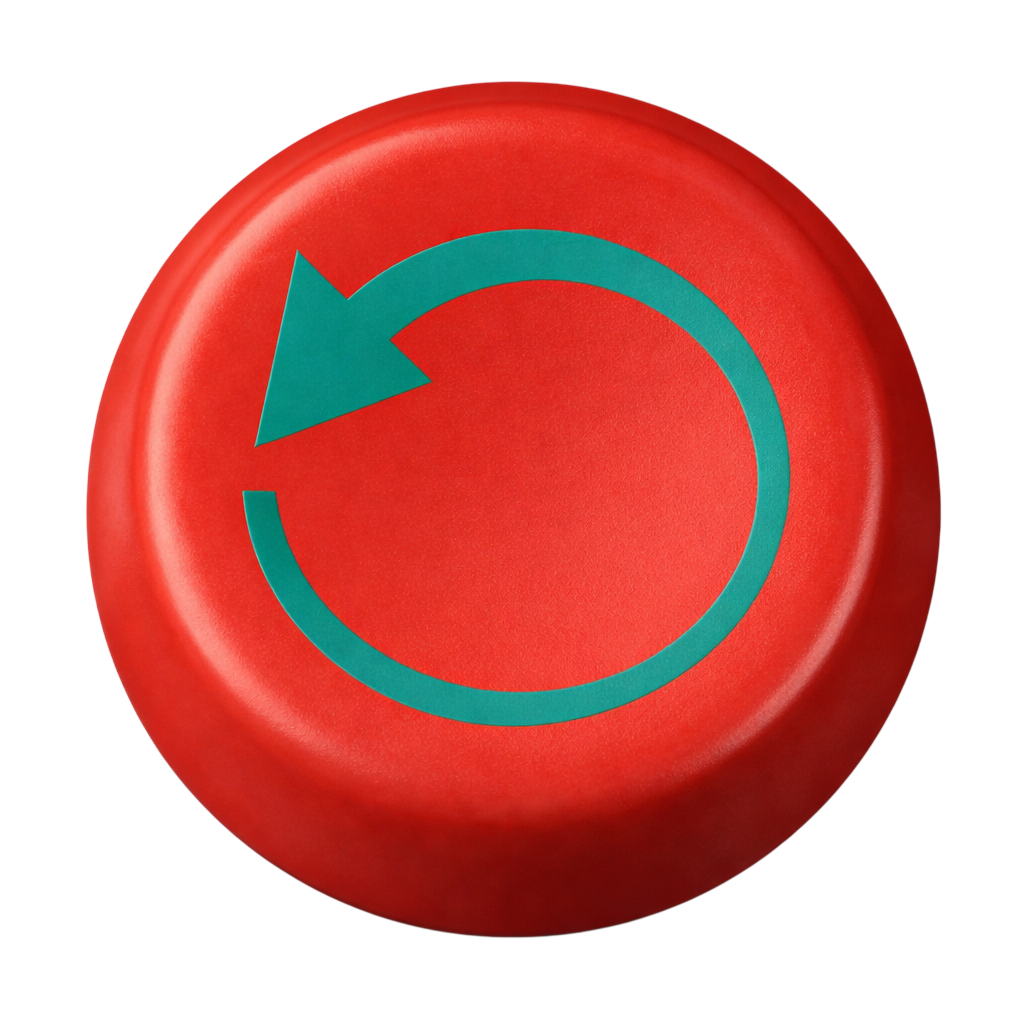
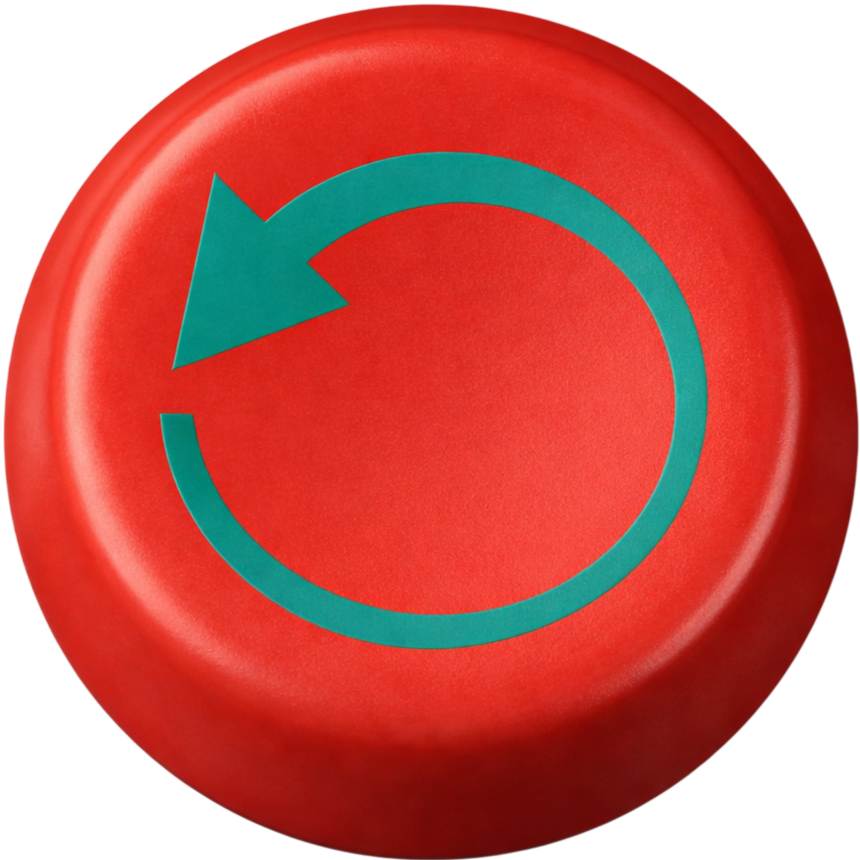
more ui fixes

diff --git a/Bildschirm.java b/Bildschirm.java
@@ -79,9 +79,10 @@ public class Bildschirm extends Funktionen
                     cell.enabled = false;
                 }
             }
-            Image knopf = new ImageIcon("orbitoKnopf.png").getImage();
+            Image knopf = new ImageIcon("orbitoButton.png").getImage();
             //int knopfWidth
-            knopfLabel = addImageToJFrame(knopf, bildschirm, 920, 550, 100, 100, 10000);
+            int knopfWidth = width/19;
+            knopfLabel = addImageToJFrame(knopf, bildschirm, (int) (((width-knopfWidth)/2.0)+width*0.0035), (int) (((height-knopfWidth)/2.0)+height*0.0035), knopfWidth, knopfWidth, 10000);
             
             //bildschirm.getLayeredPane().add(knopfLabel, Integer.valueOf(1000));
             
@@ -89,23 +90,29 @@ public class Bildschirm extends Funktionen
             /**
             @Override
             public void mouseEntered(MouseEvent e) {
-                if (!enabled) return;
-                hovered = true;
-                image.repaint();
+                
+                knopfLabel.setBounds((int) (((width-knopfWidth)/2.0)+width*0.0035),(height-knopfWidth)/2, (int) (knopfWidth*1.2), (int) (knopfWidth*1.2));
             }
 
             @Override
             public void mouseExited(MouseEvent e) {
-                hovered = false;
-                image.repaint();
+                knopfLabel.setBounds((int) (((width-knopfWidth)/2.0)+width*0.0035),(height-knopfWidth)/2, knopfWidth, knopfWidth);
             }
-            **/
+            */
             @Override
             public void mouseClicked(MouseEvent e) {
                 amZug.spielfeld.spielfeld = amZug.spielfeld.orbito.drehen(amZug.spielfeld.spielfeld);
                 amZug.spiel.naechsterSpieler();
             }
+            
         });
+        }
+        void disableAll() {
+            for (cell[] row: cells) {
+                for (cell cell : row) {
+                    cell.enabled = false;
+                }
+            }
         }
         void removeOrbitoKnopf() {
             if (knopfLabel != null) {
@@ -126,11 +133,13 @@ public class Bildschirm extends Funktionen
             }
         }
         void newGame() {
-            Image newGame = new ImageIcon("newGame.png").getImage();
-            Image closeGame = new ImageIcon("closeGame.png").getImage();
+            Image newGame = new ImageIcon("new.png").getImage();
+            Image closeGame = new ImageIcon("close.png").getImage();
             
-            JLabel newGameLabel = addImageToJFrame (newGame, bildschirm, 300, 500, 200, 50, 456787678);
-            JLabel closeGameLabel = addImageToJFrame (closeGame, bildschirm, 600, 500, 200, 50, 456787678);
+            double widthButton = ((height*0.9)/2)*0.8;
+            //double heightNewGame = widthNewGame*(291.0/)
+            JLabel newGameLabel = addImageToJFrame (newGame, bildschirm, (int) (((width*0.95)/2.0)-widthButton), (int) (height*0.005), (int) widthButton, (int) (widthButton*(291.0/1013.0)), 456787678);
+            JLabel closeGameLabel = addImageToJFrame (closeGame, bildschirm, (int) ((width*(100.0/95.0))/2.0), (int) (height*0.005),  (int) widthButton, (int) (widthButton*(351.0/1240.0)), 456787678);
             
             newGameLabel.addMouseListener(new MouseAdapter() {
             @Override

diff --git a/Spiel.java b/Spiel.java
@@ -8,6 +8,7 @@ public class Spiel
     Music music;
     Bildschirm bildschirm;
     int spIdx = 1;
+    int endEventCounter = 0;
     public Spiel()
     {
         
@@ -28,6 +29,7 @@ public class Spiel
     void reset() {
         bildschirm.bildschirm.dispose();
         spIdx = 1;
+        endEventCounter = 0;
         this.music = new Music();
         this. spielfeld = new spielbrett();
         //System.out.println("Spiel gestartet. Wie heißt Spieler 1? ");
@@ -65,24 +67,18 @@ public class Spiel
             //spieler winner = null;
            
         } else {
-            for (int i=0; i < 5; i++) {
-                spielfeld.orbito.drehen(spielfeld.spielfeld);
-                winC = checkWin();
-                spieler winner = null;
-            if (winC[0] != null) {
-                if (winC[1] != null) {
-                    end("beide");
-                } else {
-                    end(winC[0]);
-                }  
-                return;
+            if (endEventCounter < 5) {
+                bildschirm.removeOrbitoKnopf();
+                bildschirm.showOrbitoKnopf();
+                endEventCounter++;
+            } else {
+                end(null);
             }
-            }
-            end(null);
-            return;
         }
     }   
     private void end(String winner) {
+        bildschirm.removeOrbitoKnopf();
+        bildschirm.disableAll();
         if (winner == null) {
             System.out.println("Unentschieden!");
             bildschirm.unentschieden();
